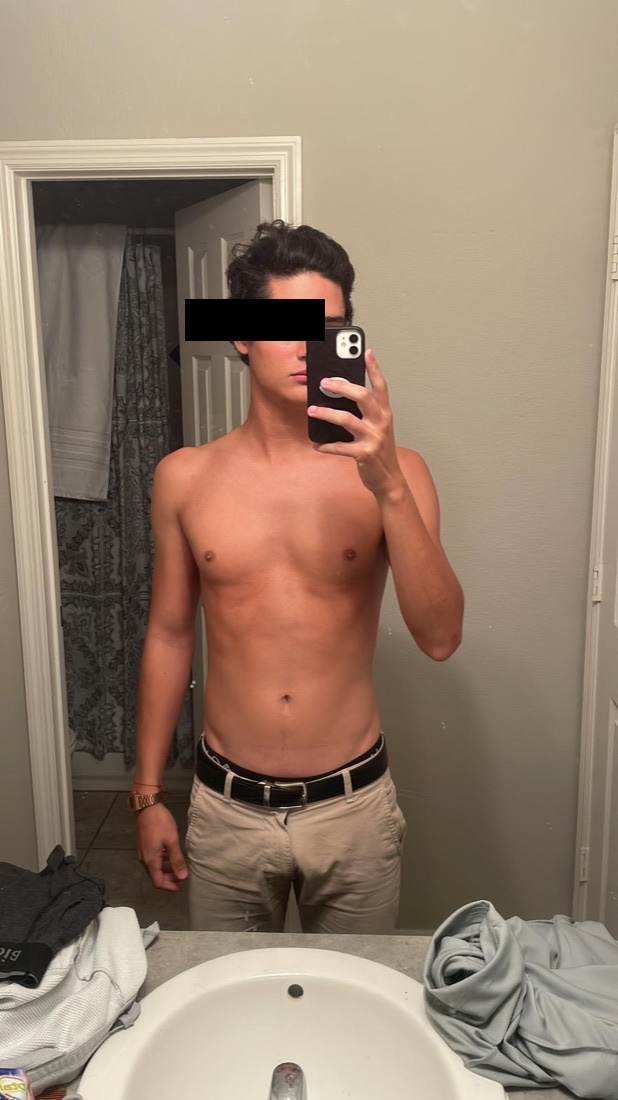
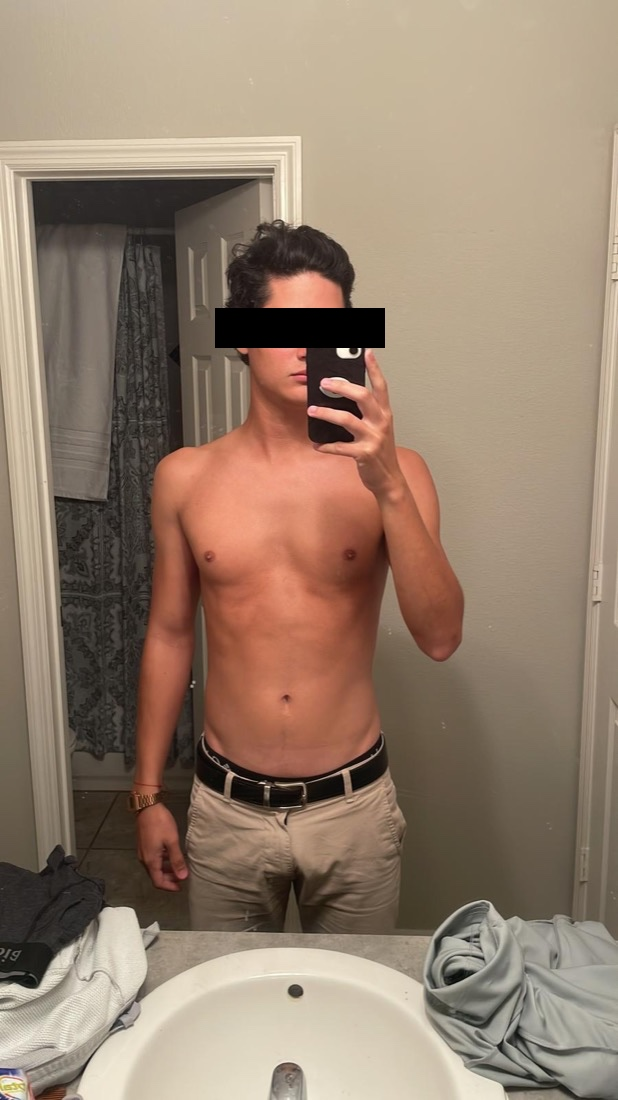
Landing: barras de ojos de Héctor V corregidas

Changed region(s): [[0.2767, 0.2473, 0.6456, 0.34]]

diff --git a/public/vsl/landing-escritorio.html b/public/vsl/landing-escritorio.html
@@ -121,7 +121,7 @@ setTimeout(revisar,0);addEventListener('load',function(){setTimeout(revisar,0)})
         <div class="ecc-bezel ecc-bezel-on-dark">
           <div class="ecc-bezel-core ecc-bezel-core-on-dark" style="padding:0;overflow:hidden" aria-roledescription="carrusel" aria-label="Testimonios">
             <div style="display:flex;transition:transform .7s cubic-bezier(.32,.72,0,1);transform:{{ testiTrack }}">
-              <a href="#testimonios" class="ecc-hero-testi" data-testi="0" style="flex:0 0 100%;min-width:0;box-sizing:border-box;padding:var(--space-4) var(--space-5);display:flex;align-items:center;gap:var(--space-4);text-decoration:none;color:inherit"><div style="position:relative;flex:none;width:52px;height:52px;border-radius:999px;overflow:hidden"><img src="assets/testimonios/testimonio-1-despues.jpg?v=9" alt="" loading="lazy" style="position:absolute;inset:0;width:100%;height:100%;object-fit:cover;object-position:50% 22%"></div><div style="display:flex;flex-direction:column;gap:4px;min-width:0"><p style="font-size:14px;line-height:1.5;font-weight:600;color:var(--text-on-dark)">«Me dijeron que era mi genética.»</p><p style="font-size:12px;line-height:1.4;color:var(--text-on-dark-faint)">Héctor V, 27 · Miami, USA · <span class="ecc-hero-testi-ver">Ver su antes y después ↓</span></p></div></a>
+              <a href="#testimonios" class="ecc-hero-testi" data-testi="0" style="flex:0 0 100%;min-width:0;box-sizing:border-box;padding:var(--space-4) var(--space-5);display:flex;align-items:center;gap:var(--space-4);text-decoration:none;color:inherit"><div style="position:relative;flex:none;width:52px;height:52px;border-radius:999px;overflow:hidden"><img src="assets/testimonios/testimonio-1-despues.jpg?v=10" alt="" loading="lazy" style="position:absolute;inset:0;width:100%;height:100%;object-fit:cover;object-position:50% 22%"></div><div style="display:flex;flex-direction:column;gap:4px;min-width:0"><p style="font-size:14px;line-height:1.5;font-weight:600;color:var(--text-on-dark)">«Me dijeron que era mi genética.»</p><p style="font-size:12px;line-height:1.4;color:var(--text-on-dark-faint)">Héctor V, 27 · Miami, USA · <span class="ecc-hero-testi-ver">Ver su antes y después ↓</span></p></div></a>
               <a href="#testimonios" class="ecc-hero-testi" data-testi="1" style="flex:0 0 100%;min-width:0;box-sizing:border-box;padding:var(--space-4) var(--space-5);display:flex;align-items:center;gap:var(--space-4);text-decoration:none;color:inherit"><div style="position:relative;flex:none;width:52px;height:52px;border-radius:999px;overflow:hidden"><img src="assets/testimonios/testimonio-2-despues.jpg?v=9" alt="" loading="lazy" style="position:absolute;inset:0;width:100%;height:100%;object-fit:cover;object-position:50% 25%"></div><div style="display:flex;flex-direction:column;gap:4px;min-width:0"><p style="font-size:14px;line-height:1.5;font-weight:600;color:var(--text-on-dark)">«Por fin pude ganar músculo.»</p><p style="font-size:12px;line-height:1.4;color:var(--text-on-dark-faint)">Luis F, 31 · Nueva York, USA · <span class="ecc-hero-testi-ver">Ver su antes y después ↓</span></p></div></a>
               <a href="#testimonios" class="ecc-hero-testi" data-testi="2" style="flex:0 0 100%;min-width:0;box-sizing:border-box;padding:var(--space-4) var(--space-5);display:flex;align-items:center;gap:var(--space-4);text-decoration:none;color:inherit"><div style="position:relative;flex:none;width:52px;height:52px;border-radius:999px;overflow:hidden"><img src="assets/testimonios/testimonio-6-despues.jpg?v=5" alt="" loading="lazy" style="position:absolute;inset:0;width:100%;height:100%;object-fit:cover;object-position:50% 15%"></div><div style="display:flex;flex-direction:column;gap:4px;min-width:0"><p style="font-size:14px;line-height:1.5;font-weight:600;color:var(--text-on-dark)">«Bajé de peso sin pasar hambre.»</p><p style="font-size:12px;line-height:1.4;color:var(--text-on-dark-faint)">Juan Manuel M, 35 · Miami, USA · <span class="ecc-hero-testi-ver">Ver su antes y después ↓</span></p></div></a>
               <a href="#testimonios" class="ecc-hero-testi" data-testi="3" style="flex:0 0 100%;min-width:0;box-sizing:border-box;padding:var(--space-4) var(--space-5);display:flex;align-items:center;gap:var(--space-4);text-decoration:none;color:inherit"><div style="position:relative;flex:none;width:52px;height:52px;border-radius:999px;overflow:hidden"><img src="assets/testimonios/testimonio-3-despues.jpg?v=3" alt="" loading="lazy" style="position:absolute;inset:0;width:100%;height:100%;object-fit:cover;object-position:60% 15%"></div><div style="display:flex;flex-direction:column;gap:4px;min-width:0"><p style="font-size:14px;line-height:1.5;font-weight:600;color:var(--text-on-dark)">«Estoy más fit que nunca.»</p><p style="font-size:12px;line-height:1.4;color:var(--text-on-dark-faint)">Rodolfo V, 31 · Santiago, Chile · <span class="ecc-hero-testi-ver">Ver su antes y después ↓</span></p></div></a>
@@ -530,8 +530,8 @@ setTimeout(revisar,0);addEventListener('load',function(){setTimeout(revisar,0)})
           <div class="ecc-testi-slide" role="group" aria-roledescription="testimonio" aria-label="1 de 6">
             <div class="ecc-bezel"><div class="ecc-bezel-core ecc-testi-card">
               <div class="ecc-ad-par ecc-testi-fotos">
-                <div class="ecc-ad-foto"><img src="assets/testimonios/testimonio-1-antes.jpg?v=9" alt="Héctor V, antes" loading="lazy" style="object-position:50% 45%"><span>Antes</span></div>
-                <div class="ecc-ad-foto"><img src="assets/testimonios/testimonio-1-despues.jpg?v=9" alt="Héctor V, después" loading="lazy" style="object-position:42% 28%"><span>Después</span></div>
+                <div class="ecc-ad-foto"><img src="assets/testimonios/testimonio-1-antes.jpg?v=10" alt="Héctor V, antes" loading="lazy" style="object-position:50% 45%"><span>Antes</span></div>
+                <div class="ecc-ad-foto"><img src="assets/testimonios/testimonio-1-despues.jpg?v=10" alt="Héctor V, después" loading="lazy" style="object-position:42% 28%"><span>Después</span></div>
               </div>
               <div class="ecc-testi-texto">
                 <i class="ph-fill ph-quotes" aria-hidden="true"></i>

diff --git a/public/vsl/landing-movil.html b/public/vsl/landing-movil.html
@@ -143,7 +143,7 @@ setTimeout(revisar,0);addEventListener('load',function(){setTimeout(revisar,0)})
         <div class="ecc-bezel ecc-bezel-on-dark">
           <div class="ecc-bezel-core ecc-bezel-core-on-dark" style="padding:0;overflow:hidden" aria-roledescription="carrusel" aria-label="Testimonios">
             <div style="display:flex;transition:transform .7s cubic-bezier(.32,.72,0,1);transform:{{ testiTrack }}">
-              <a href="#testimonios" class="ecc-hero-testi" data-testi="0" style="flex:0 0 100%;min-width:0;box-sizing:border-box;padding:var(--space-4) var(--space-5);display:flex;align-items:center;gap:var(--space-4);text-decoration:none;color:inherit"><div style="position:relative;flex:none;width:52px;height:52px;border-radius:999px;overflow:hidden"><img src="assets/testimonios/testimonio-1-despues.jpg?v=9" alt="" loading="lazy" style="position:absolute;inset:0;width:100%;height:100%;object-fit:cover;object-position:50% 22%"></div><div style="display:flex;flex-direction:column;gap:4px;min-width:0"><p style="font-size:14px;line-height:1.5;font-weight:600;color:var(--text-on-dark)">«Me dijeron que era mi genética.»</p><p style="font-size:12px;line-height:1.4;color:var(--text-on-dark-faint)">Héctor V, 27 · Miami, USA · <span class="ecc-hero-testi-ver">Ver su antes y después ↓</span></p></div></a>
+              <a href="#testimonios" class="ecc-hero-testi" data-testi="0" style="flex:0 0 100%;min-width:0;box-sizing:border-box;padding:var(--space-4) var(--space-5);display:flex;align-items:center;gap:var(--space-4);text-decoration:none;color:inherit"><div style="position:relative;flex:none;width:52px;height:52px;border-radius:999px;overflow:hidden"><img src="assets/testimonios/testimonio-1-despues.jpg?v=10" alt="" loading="lazy" style="position:absolute;inset:0;width:100%;height:100%;object-fit:cover;object-position:50% 22%"></div><div style="display:flex;flex-direction:column;gap:4px;min-width:0"><p style="font-size:14px;line-height:1.5;font-weight:600;color:var(--text-on-dark)">«Me dijeron que era mi genética.»</p><p style="font-size:12px;line-height:1.4;color:var(--text-on-dark-faint)">Héctor V, 27 · Miami, USA · <span class="ecc-hero-testi-ver">Ver su antes y después ↓</span></p></div></a>
               <a href="#testimonios" class="ecc-hero-testi" data-testi="1" style="flex:0 0 100%;min-width:0;box-sizing:border-box;padding:var(--space-4) var(--space-5);display:flex;align-items:center;gap:var(--space-4);text-decoration:none;color:inherit"><div style="position:relative;flex:none;width:52px;height:52px;border-radius:999px;overflow:hidden"><img src="assets/testimonios/testimonio-2-despues.jpg?v=9" alt="" loading="lazy" style="position:absolute;inset:0;width:100%;height:100%;object-fit:cover;object-position:50% 25%"></div><div style="display:flex;flex-direction:column;gap:4px;min-width:0"><p style="font-size:14px;line-height:1.5;font-weight:600;color:var(--text-on-dark)">«Por fin pude ganar músculo.»</p><p style="font-size:12px;line-height:1.4;color:var(--text-on-dark-faint)">Luis F, 31 · Nueva York, USA · <span class="ecc-hero-testi-ver">Ver su antes y después ↓</span></p></div></a>
               <a href="#testimonios" class="ecc-hero-testi" data-testi="2" style="flex:0 0 100%;min-width:0;box-sizing:border-box;padding:var(--space-4) var(--space-5);display:flex;align-items:center;gap:var(--space-4);text-decoration:none;color:inherit"><div style="position:relative;flex:none;width:52px;height:52px;border-radius:999px;overflow:hidden"><img src="assets/testimonios/testimonio-6-despues.jpg?v=5" alt="" loading="lazy" style="position:absolute;inset:0;width:100%;height:100%;object-fit:cover;object-position:50% 15%"></div><div style="display:flex;flex-direction:column;gap:4px;min-width:0"><p style="font-size:14px;line-height:1.5;font-weight:600;color:var(--text-on-dark)">«Bajé de peso sin pasar hambre.»</p><p style="font-size:12px;line-height:1.4;color:var(--text-on-dark-faint)">Juan Manuel M, 35 · Miami, USA · <span class="ecc-hero-testi-ver">Ver su antes y después ↓</span></p></div></a>
               <a href="#testimonios" class="ecc-hero-testi" data-testi="3" style="flex:0 0 100%;min-width:0;box-sizing:border-box;padding:var(--space-4) var(--space-5);display:flex;align-items:center;gap:var(--space-4);text-decoration:none;color:inherit"><div style="position:relative;flex:none;width:52px;height:52px;border-radius:999px;overflow:hidden"><img src="assets/testimonios/testimonio-3-despues.jpg?v=3" alt="" loading="lazy" style="position:absolute;inset:0;width:100%;height:100%;object-fit:cover;object-position:60% 15%"></div><div style="display:flex;flex-direction:column;gap:4px;min-width:0"><p style="font-size:14px;line-height:1.5;font-weight:600;color:var(--text-on-dark)">«Estoy más fit que nunca.»</p><p style="font-size:12px;line-height:1.4;color:var(--text-on-dark-faint)">Rodolfo V, 31 · Santiago, Chile · <span class="ecc-hero-testi-ver">Ver su antes y después ↓</span></p></div></a>
@@ -552,8 +552,8 @@ setTimeout(revisar,0);addEventListener('load',function(){setTimeout(revisar,0)})
           <div class="ecc-testi-slide" role="group" aria-roledescription="testimonio" aria-label="1 de 6">
             <div class="ecc-bezel"><div class="ecc-bezel-core ecc-testi-card">
               <div class="ecc-ad-par ecc-testi-fotos">
-                <div class="ecc-ad-foto"><img src="assets/testimonios/testimonio-1-antes.jpg?v=9" alt="Héctor V, antes" loading="lazy" style="object-position:50% 45%"><span>Antes</span></div>
-                <div class="ecc-ad-foto"><img src="assets/testimonios/testimonio-1-despues.jpg?v=9" alt="Héctor V, después" loading="lazy" style="object-position:42% 28%"><span>Después</span></div>
+                <div class="ecc-ad-foto"><img src="assets/testimonios/testimonio-1-antes.jpg?v=10" alt="Héctor V, antes" loading="lazy" style="object-position:50% 45%"><span>Antes</span></div>
+                <div class="ecc-ad-foto"><img src="assets/testimonios/testimonio-1-despues.jpg?v=10" alt="Héctor V, después" loading="lazy" style="object-position:42% 28%"><span>Después</span></div>
               </div>
               <div class="ecc-testi-texto">
                 <i class="ph-fill ph-quotes" aria-hidden="true"></i>
